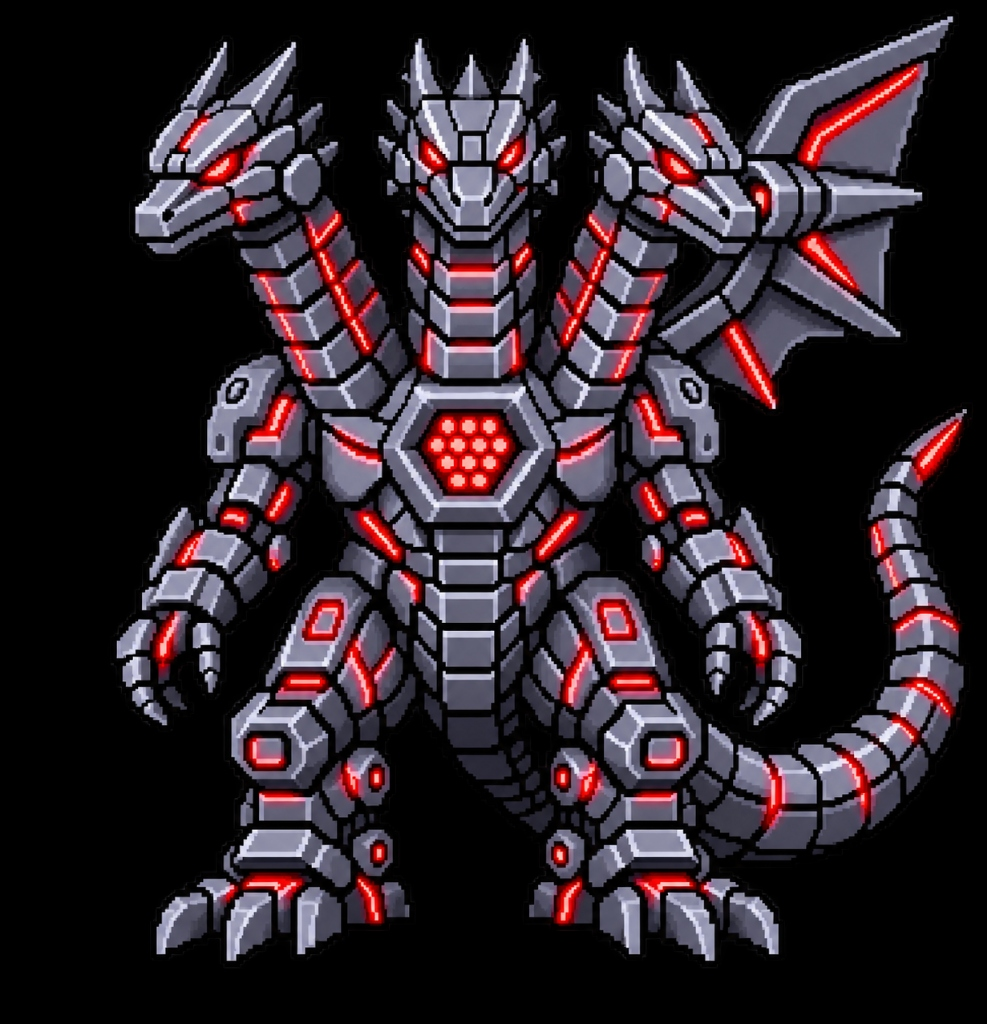
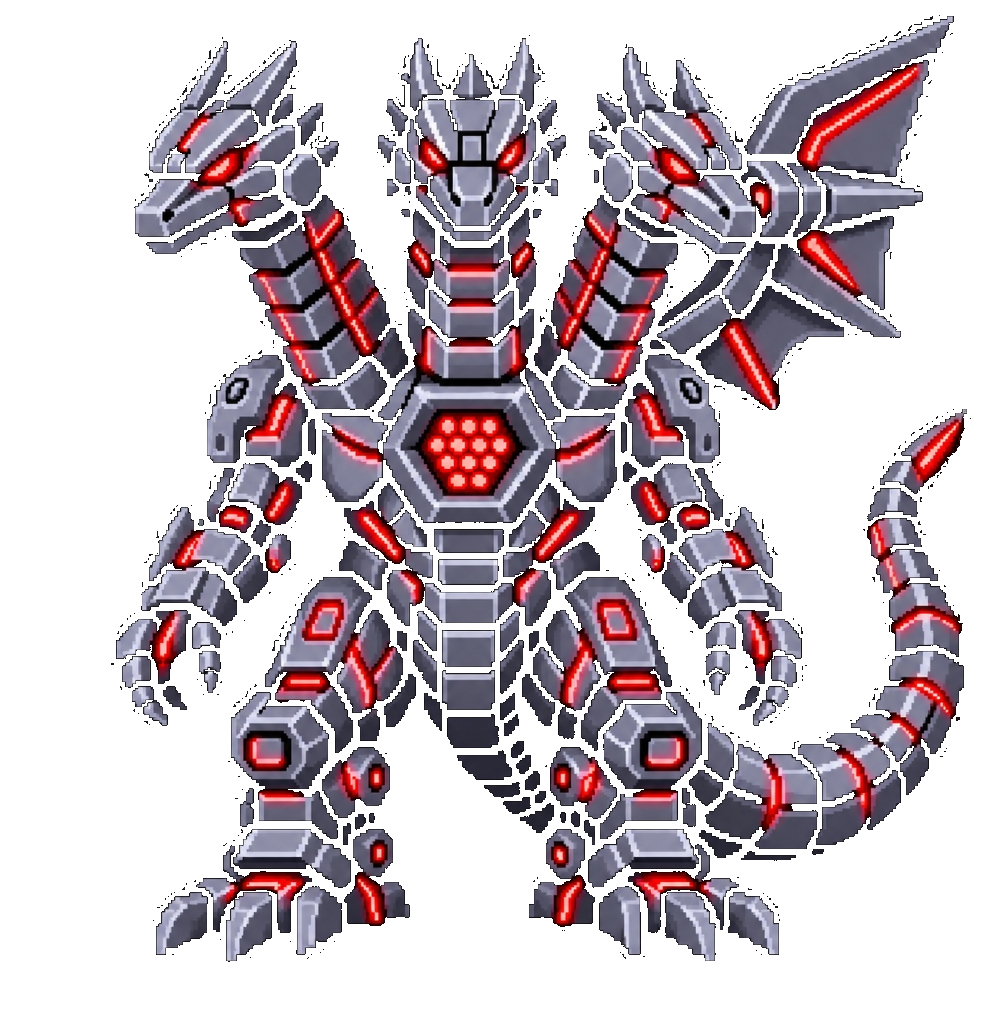
style(boss): convert mecha dragon sprite to transparent PNG and enhance arena silhouette shadow

diff --git a/components/exam/BossArena.tsx b/components/exam/BossArena.tsx
@@ -170,15 +170,15 @@ export const BossArena: React.FC<BossArenaProps> = ({
               className={`relative transition-all duration-300 ${bossAnimClass}`}
               style={{ imageRendering: 'pixelated' }}
             >
-              {/* Responsive Boss Sprite */}
-              <div className="relative w-28 h-28 sm:w-44 sm:h-44 md:w-56 md:h-56 filter drop-shadow-[0_10px_20px_rgba(0,0,0,0.8)]">
+              {/* Responsive Boss Sprite with Transparent PNG Silhouette Shadow & Cyber Red Glow */}
+              <div className="relative w-28 h-28 sm:w-44 sm:h-44 md:w-56 md:h-56 filter drop-shadow-[0_10px_20px_rgba(0,0,0,0.8)] drop-shadow-[0_0_15px_rgba(239,68,68,0.35)]">
                 <Image
                   src="/images/boss/mecha-dragon-boss.png"
                   alt="Three Headed Mecha Dragon Boss"
                   fill
                   priority
                   sizes="(max-width: 640px) 112px, (max-width: 768px) 176px, 224px"
-                  className="object-contain"
+                  className="object-contain select-none pointer-events-none"
                 />
               </div>
             </div>
